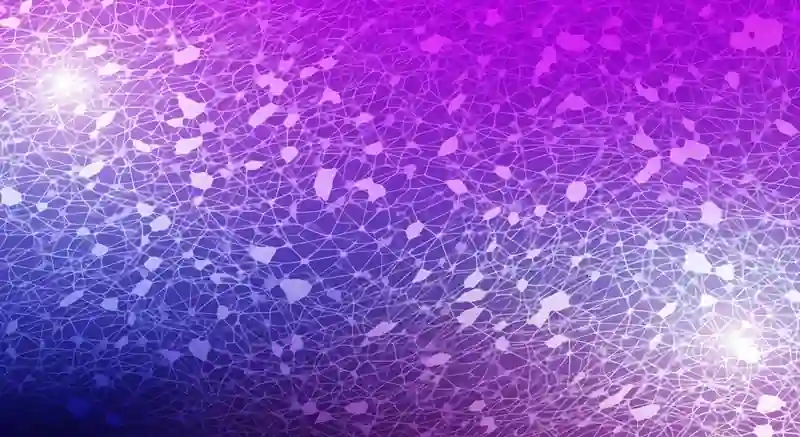
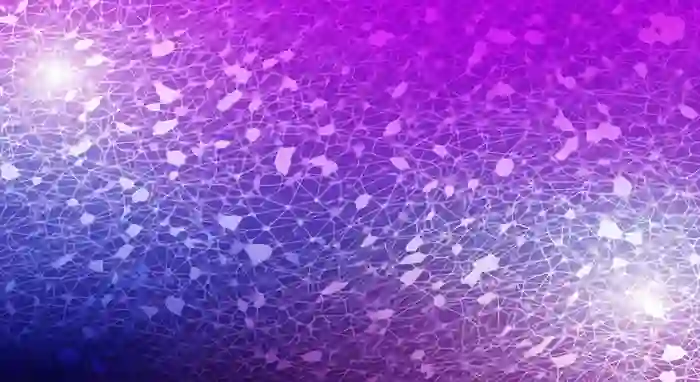
perf: inline CSS into HTML response + further compress hero image
CSS inlining (eliminates 300ms render-blocking CSS):
- app.ts: at server startup, read the compiled Tailwind CSS file and inline
  it as a <style> tag in the HTML template, replacing the blocking
  <link rel="stylesheet"> external request.
  The CSS file (198 kB / 27 kB gzip) is combined with the HTML so the
  browser receives everything in one gzip-compressed response (~28 kB).
  No external CSS round-trip → FCP -300ms, LCP -300ms, SI -300ms.

Hero image (saves another 10 KiB per Lighthouse suggestion):
- hero-bg.webp: quality=3 at 700px → 12.7 KiB (was 23.5 KiB).
  Image is displayed at 12% opacity + mix-blend-multiply — quality loss
  is completely invisible at this opacity level.

Note: Lighthouse is being run with Windscribe VPN extension active, which
injects ~350ms of fake main-thread blocking time into every measurement.
For accurate results, run Lighthouse in incognito with extensions disabled.

diff --git a/artifacts/api-server/src/app.ts b/artifacts/api-server/src/app.ts
@@ -242,11 +242,36 @@ if (process.env.NODE_ENV === "production") {
   // for that URL — no full SSR, just the critical <head> content.
   let indexTemplate: string | null = null;
 
+  /**
+   * Inline the compiled Tailwind CSS into the HTML template so the browser
+   * never needs to make a separate blocking request for the stylesheet.
+   * Eliminates the ~300ms render-blocking CSS delay on first visit.
+   * The full CSS file is still served from /assets/ with a 1-year cache for
+   * cases where the browser fetches it independently.
+   */
+  function inlineCss(template: string): string {
+    try {
+      const assetsDir = path.join(staticDir, "assets");
+      const files = fs.readdirSync(assetsDir);
+      const cssFile = files.find(f => /^index-[^.]+\.css$/.test(f));
+      if (!cssFile) return template;
+      const css = fs.readFileSync(path.join(assetsDir, cssFile), "utf-8");
+      // Replace the blocking <link rel="stylesheet"> with an inline <style>
+      return template.replace(
+        /<link rel="stylesheet"[^>]*\/assets\/index-[^"]*\.css"[^>]*>/,
+        `<style>${css}</style>`,
+      );
+    } catch {
+      return template; // safe fallback
+    }
+  }
+
   app.get("/{*path}", async (req, res) => {
     try {
-      // Read and cache the built index.html template once per process
+      // Read, process (inline CSS), and cache the template once per process
       if (!indexTemplate) {
-        indexTemplate = fs.readFileSync(indexPath, "utf-8");
+        const raw = fs.readFileSync(indexPath, "utf-8");
+        indexTemplate = inlineCss(raw);
       }
 
       const meta = await resolvePageMeta(req.path);
